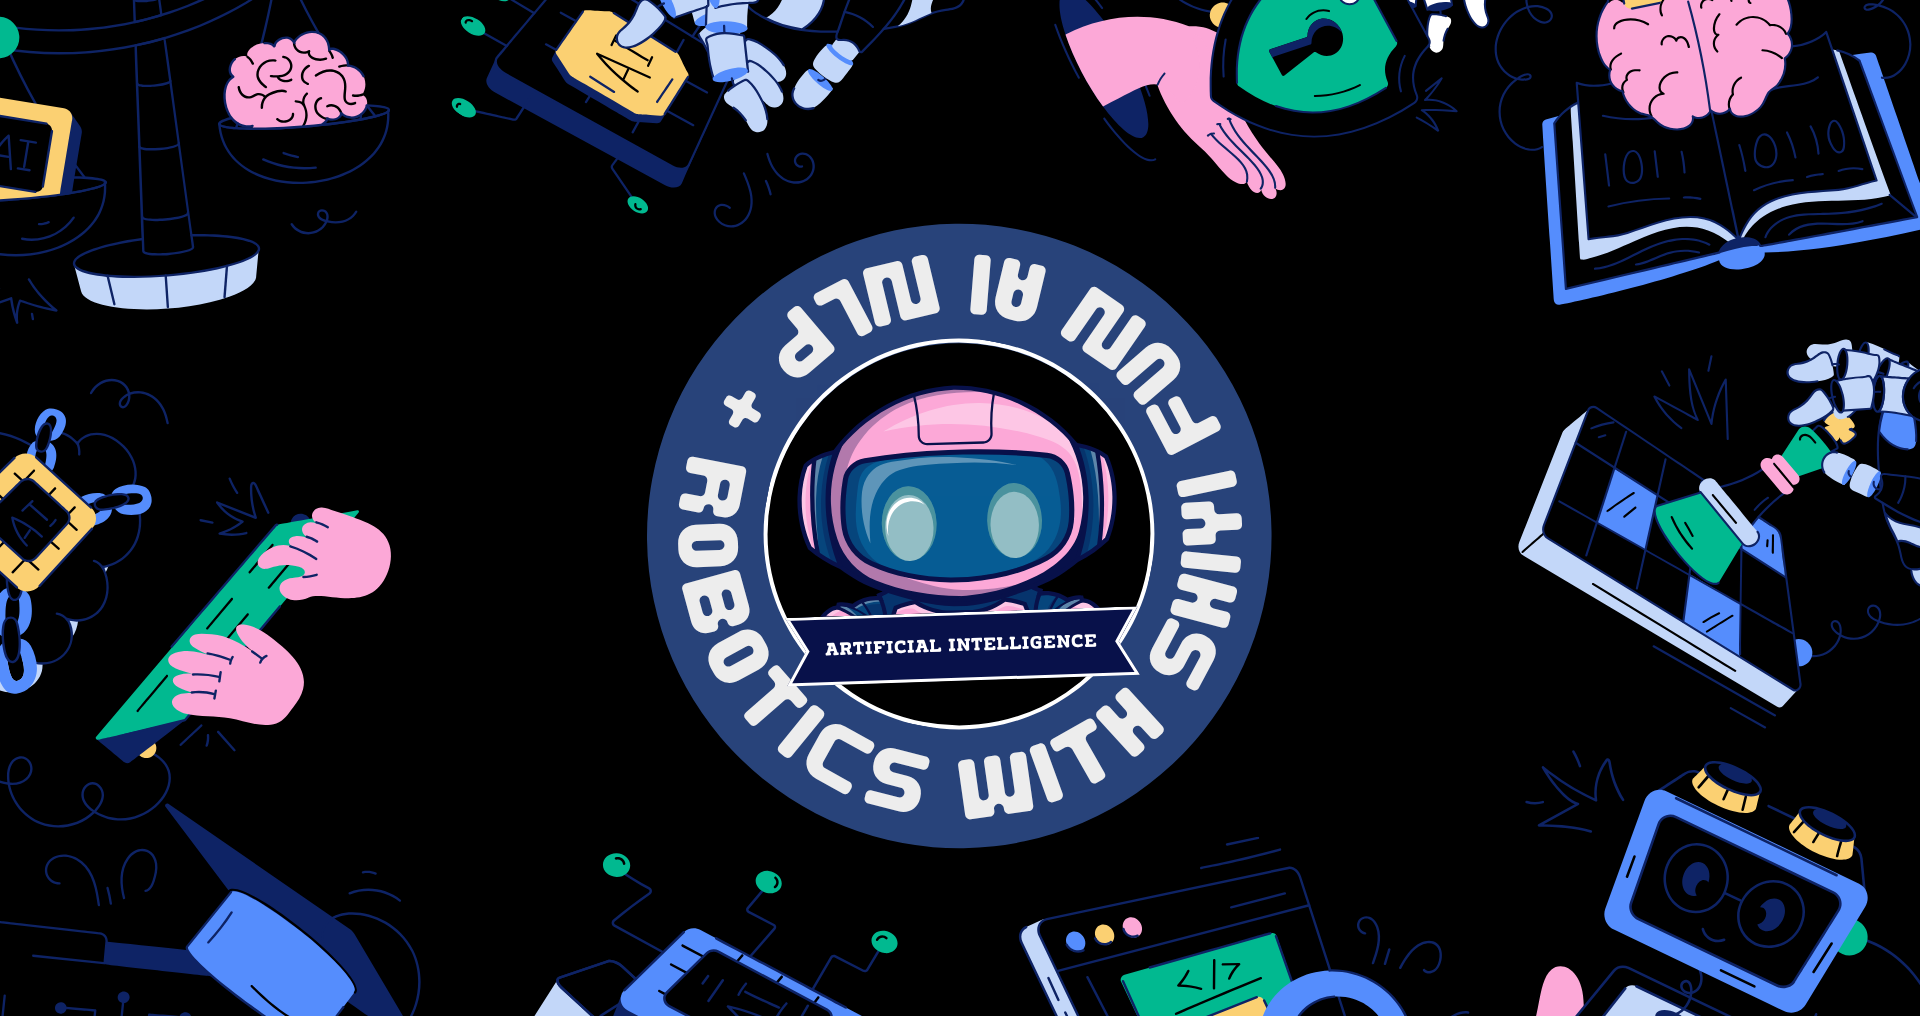
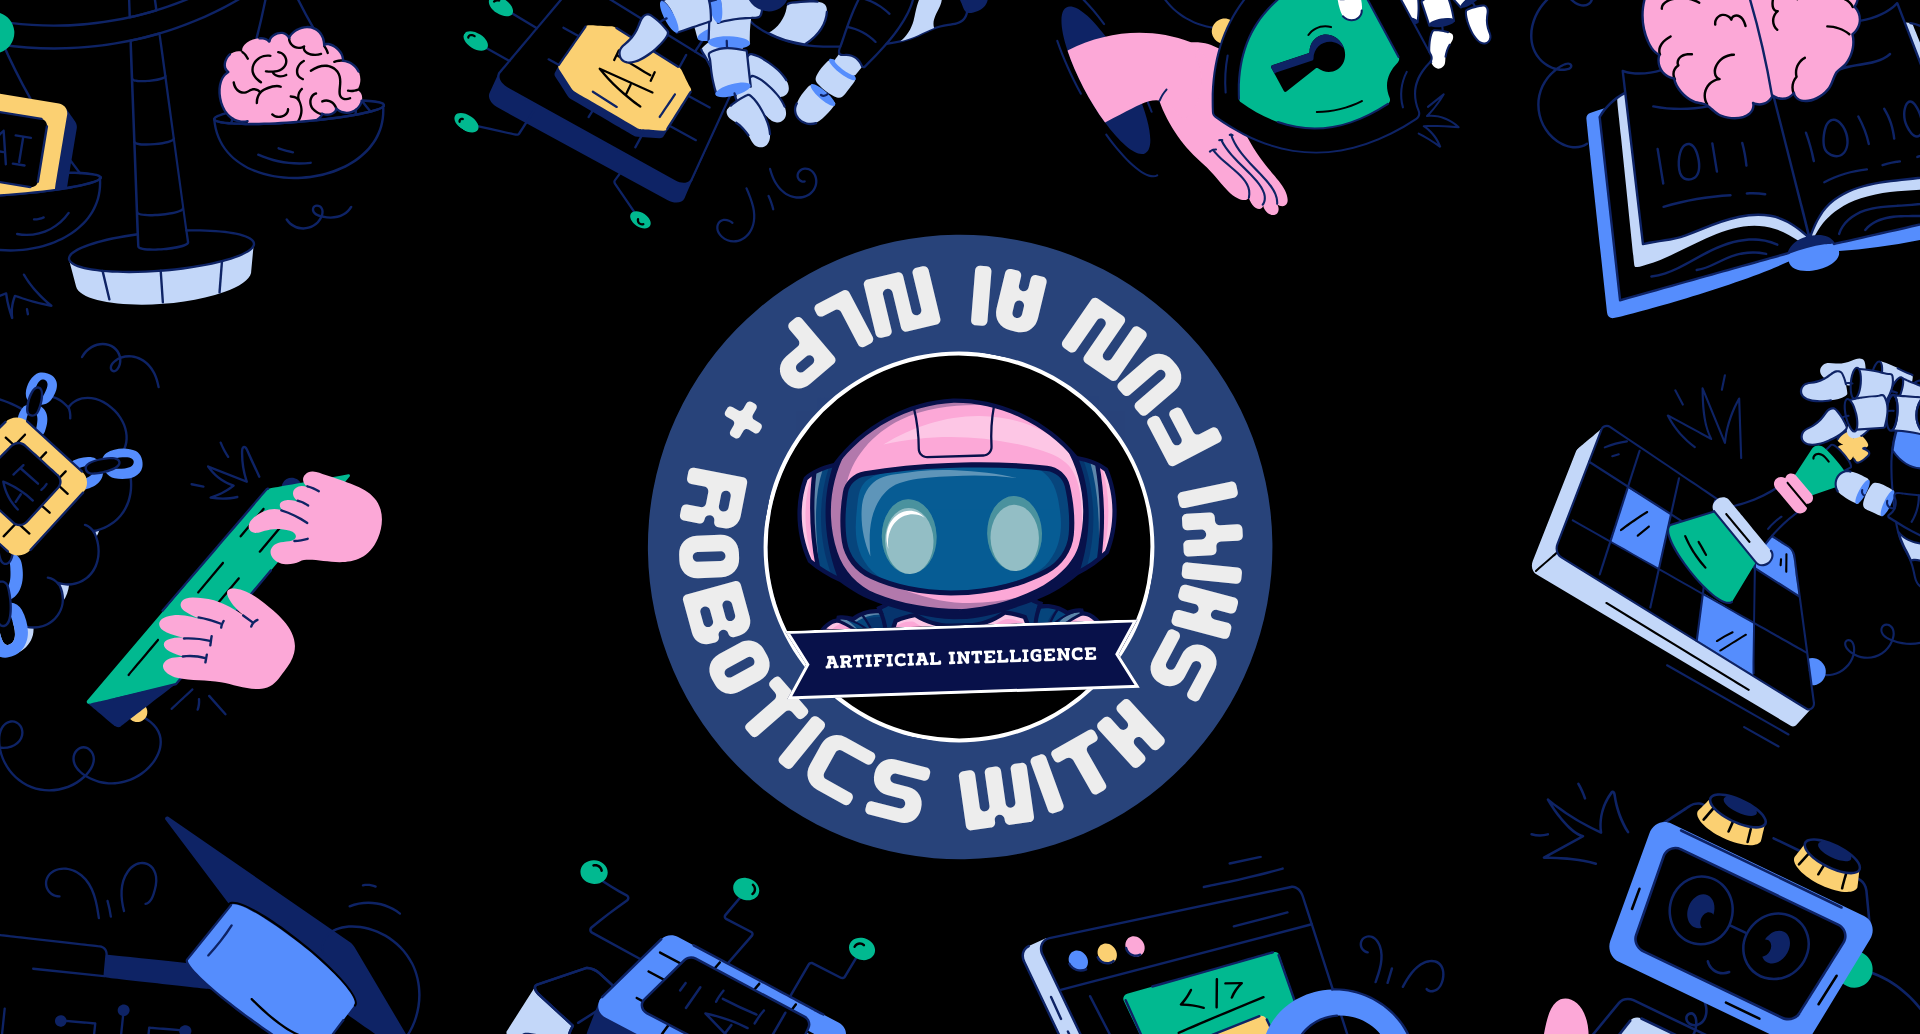
Deploying to main from  @ 0f98f156d666f9330dab46195a2863e591e74ac4 🚀

diff --git a/index.html b/index.html
@@ -1,4 +1,4 @@
-<!doctype html> <html lang=en > <meta charset=UTF-8 > <meta name=viewport  content="width=device-width, initial-scale=1"> <link rel=stylesheet  href="/nlpwme/libs/highlight/styles/github.min.css"> <link rel=stylesheet  href="/nlpwme/css/franklin.css"> <link rel=stylesheet  href="https://fonts.googleapis.com/css?family=Source+Sans+Pro:400,700,400italic|Source+Code+Pro:400,700" type="text/css"> <link rel=stylesheet  href="/nlpwme/css/font-awesome.min.css"> <link rel=stylesheet  href="/nlpwme/css/celeste.min.css"> <link rel=icon  type="image/png" sizes=200x200  href="/nlpwme/assets/robot.png"> <link rel=icon  type="image/png" sizes=152x152  href="/nlpwme/assets/robot_smaller_152x152.png"> <link rel=icon  type="image/x-icon" sizes=64x64  href="/nlpwme/assets/robot_smaller_64x64.png"> <link rel=icon  type="image/x-icon" sizes=32x32  href="/nlpwme/assets/robot_smaller_32x32.png"> <link rel=icon  type="image/png" sizes=64x64  href="/nlpwme/assets/robot_smaller_64x64.png"> <link rel=icon  type="image/png" sizes=32x32  href="/nlpwme/assets/robot_smaller_32x32.png"> <title>NLPwShiyi | Natural Language Processing with Shiyi</title> <script src="/nlpwme/assets/js/script.js"></script> <nav id=navbar  class=navigation  role=navigation > <input id=toggle1  type=checkbox  /> <label class=hamburger1  for=toggle1 > <div class=top ></div> <div class=meat ></div> <div class=bottom ></div> </label> <nav class="topnav mx-auto" id=myTopnav > <div class=dropdown > <button class=dropbtn >Comp Ling <i class="fa fa-caret-down"></i> </button> <div class=dropdown-content > <a href="/nlpwme/modules/1b-info-theory">Information Theory</a> <a href="/nlpwme/modules/1c-noisy-channel-model">The Noisy Channel Model</a> <a href="/nlpwme/modules/1d-finite-automata">FSAs and FSTs</a> <a href="/nlpwme/modules/1e-mutual-info">Mutual Information</a> <a href="/nlpwme/modules/1f-cky-algorithm">CKY Algorithm</a> <a href="/nlpwme/modules/1g-viterbi">Viterbi Algorithm</a> <a href="/nlpwme/modules/2b-markov-processes">Markov Processes</a> <a href="/nlpwme/modules/1h-semantics">Logic and Problem Solving</a> <a href="/nlpwme/modules/1j-bayesian">Bayesian Inference</a> </div> </div> <div class=dropdown > <button class=dropbtn  >ML / DL <i class="fa fa-caret-down"></i> </button> <div class=dropdown-content > <a href="/nlpwme/modules/2e-jax">Jacobian Matrices Derivation</a> <a href="/nlpwme/modules/2d-automatic-differentiation">Automatic Differentiation</a> <a href="/nlpwme/modules/2f-loss-functions">Stochastic GD</a> <a href="/nlpwme/modules/2c-word2vec">Word2Vec</a> <a href="/nlpwme/modules/2g-batchnorm">Batchnorm</a> <a href="/nlpwme/modules/2j-perplexity">Perplexity</a> <a href="/nlpwme/modules/2h-dropout">Dropout</a> <a href="/nlpwme/modules/2i-depth">Depth: Pros and Cons</a> <a href="/nlpwme/modules/2k-VAE">Variational Autoencoders</a> <a href="/nlpwme/modules/2l-dnns">DNNs(RNNs, CNNs, (Bi)-LSTM)</a> </div> </div> <a href="/nlpwme/" class=active >Intro </a> <div class=dropdown > <button class=dropbtn  >SOTA <i class="fa fa-caret-down"></i> </button> <div class=dropdown-content > <a href="/nlpwme/modules/3a-transformers"> GPT (Generative Pre-trained Transformer) </a> <a href="/nlpwme/modules/3b-xlnet"> XLNet (Generalized Autoregressive Pretraining) </a> <a href="/nlpwme/modules/3c-roberta"> RoBERTa (Robustly optimized BERT approach) </a> <a href="/nlpwme/modules/3d-t5"> T5 (Text-to-Text Transfer Transformer) </a> <a href="/nlpwme/modules/3e-clip"> CLIP (Contrastive Language-Image Pre-training) </a> </div> </div> <div class=dropdown > <button class=dropbtn  >Hands-on <i class="fa fa-caret-down"></i> </button> <div class=dropdown-content > <a href="/nlpwme/modules/4a-mlp-from-scratch">MLP from Scratch</a> <a href="/nlpwme/modules/4b-generative-adversarial-networks">GAN Example </a> <a href="/nlpwme/modules/4c-vae-mnist">VAE for MNIST</a> <a href="/nlpwme/modules/4d-bi-lstm-crf">BI-LSTM-CRF Seq2Seq</a> <a href="/nlpwme/modules/4e-c4fe-tbip">Measuring Subjectivity with VAE</a> <a href="/nlpwme/modules/4g-etl-job">Serverless ETL Example</a> <a href="/nlpwme/modules/4h-ocr-data-aug">OCR Text Augmentation</a> <a href="/nlpwme/modules/4i-neo4j-gql">Neo4j GQL Example</a> </div> </div> </nav> </nav> <script src="../assets/js/custom.js"></script> <div class=franklin-content ><p><img src="./assets/1.png" alt=intro  /></p> <h1 id=understanding_natural_language_processing_with_me ><a href="#understanding_natural_language_processing_with_me" class=header-anchor >Understanding Natural Language Processing with Me&#33;</a></h1> <p>Hi, I’m Shiyi. Welcome to my technical blog. Please check out this <a href="https://shiyis.github.io/nlp-docs">page</a> for a more detailed account of my journey with respect to learning Natural Language Processing. Here I will only be documenting the gists. I will be presenting everything I have learned so far, including important concepts, necessary code snippets, and more. I am by no means an expert in this subject, but I have gone through extensive studies and training in the fields and subfields related to have a good grasp of what’s important.</p> <p>Areas that I have dabbled in,</p> <pre><code class="julia hljs">→ General Linguistics
+<!doctype html> <html lang=en > <meta charset=UTF-8 > <meta name=viewport  content="width=device-width, initial-scale=1"> <link rel=stylesheet  href="/nlpwme/libs/highlight/styles/github.min.css"> <link rel=stylesheet  href="/nlpwme/css/franklin.css"> <link rel=stylesheet  href="https://fonts.googleapis.com/css?family=Source+Sans+Pro:400,700,400italic|Source+Code+Pro:400,700" type="text/css"> <link rel=stylesheet  href="/nlpwme/css/font-awesome.min.css"> <link rel=stylesheet  href="/nlpwme/css/celeste.min.css"> <link rel=icon  type="image/png" sizes=200x200  href="/nlpwme/assets/robot.png"> <link rel=icon  type="image/png" sizes=152x152  href="/nlpwme/assets/robot_smaller_152x152.png"> <link rel=icon  type="image/x-icon" sizes=64x64  href="/nlpwme/assets/robot_smaller_64x64.png"> <link rel=icon  type="image/x-icon" sizes=32x32  href="/nlpwme/assets/robot_smaller_32x32.png"> <link rel=icon  type="image/png" sizes=64x64  href="/nlpwme/assets/robot_smaller_64x64.png"> <link rel=icon  type="image/png" sizes=32x32  href="/nlpwme/assets/robot_smaller_32x32.png"> <title>NLPwShiyi | Natural Language Processing with Shiyi</title> <script src="/nlpwme/assets/js/script.js"></script> <nav id=navbar  class=navigation  role=navigation > <input id=toggle1  type=checkbox  /> <label class=hamburger1  for=toggle1 > <div class=top ></div> <div class=meat ></div> <div class=bottom ></div> </label> <nav class="topnav mx-auto" id=myTopnav > <div class=dropdown > <button class=dropbtn >Comp Ling <i class="fa fa-caret-down"></i> </button> <div class=dropdown-content > <a href="/nlpwme/modules/1b-info-theory">Information Theory</a> <a href="/nlpwme/modules/1c-noisy-channel-model">The Noisy Channel Model</a> <a href="/nlpwme/modules/1d-finite-automata">FSAs and FSTs</a> <a href="/nlpwme/modules/1e-mutual-info">Mutual Information</a> <a href="/nlpwme/modules/1f-cky-algorithm">CKY Algorithm</a> <a href="/nlpwme/modules/1g-viterbi">Viterbi Algorithm</a> <a href="/nlpwme/modules/2b-markov-processes">Markov Processes</a> <a href="/nlpwme/modules/1h-semantics">Logic and Problem Solving</a> <a href="/nlpwme/modules/1j-bayesian">Bayesian Inference</a> </div> </div> <div class=dropdown > <button class=dropbtn  >ML / DL <i class="fa fa-caret-down"></i> </button> <div class=dropdown-content > <a href="/nlpwme/modules/2e-jax">Jacobian Matrices Derivation</a> <a href="/nlpwme/modules/2d-automatic-differentiation">Automatic Differentiation</a> <a href="/nlpwme/modules/2f-loss-functions">Stochastic GD</a> <a href="/nlpwme/modules/2c-word2vec">Word2Vec</a> <a href="/nlpwme/modules/2g-batchnorm">Batchnorm</a> <a href="/nlpwme/modules/2j-perplexity">Perplexity</a> <a href="/nlpwme/modules/2h-dropout">Dropout</a> <a href="/nlpwme/modules/2i-depth">Depth: Pros and Cons</a> <a href="/nlpwme/modules/2k-VAE">Variational Autoencoders</a> <a href="/nlpwme/modules/2l-dnns">DNNs(RNNs, CNNs, (Bi)-LSTM)</a> </div> </div> <a href="/nlpwme/" class=active >Intro </a> <div class=dropdown > <button class=dropbtn  >SOTA <i class="fa fa-caret-down"></i> </button> <div class=dropdown-content > <a href="/nlpwme/modules/3a-transformers"> GPT (Generative Pre-trained Transformer) </a> <a href="/nlpwme/modules/3b-xlnet"> XLNet (Generalized Autoregressive Pretraining) </a> <a href="/nlpwme/modules/3c-roberta"> RoBERTa (Robustly optimized BERT approach) </a> <a href="/nlpwme/modules/3d-t5"> T5 (Text-to-Text Transfer Transformer) </a> <a href="/nlpwme/modules/3e-clip"> CLIP (Contrastive Language-Image Pre-training) </a> </div> </div> <div class=dropdown > <button class=dropbtn  >Hands-on <i class="fa fa-caret-down"></i> </button> <div class=dropdown-content > <a href="/nlpwme/modules/4a-mlp-from-scratch">MLP from Scratch</a> <a href="/nlpwme/modules/4b-generative-adversarial-networks">GAN Example </a> <a href="/nlpwme/modules/4c-vae-mnist">VAE for MNIST</a> <a href="/nlpwme/modules/4d-bi-lstm-crf">BI-LSTM-CRF Seq2Seq</a> <a href="/nlpwme/modules/4e-c4fe-tbip">Measuring Subjectivity with VAE</a> <a href="/nlpwme/modules/4g-etl-job">Serverless ETL Example</a> <a href="/nlpwme/modules/4h-ocr-data-aug">OCR Text Augmentation</a> <a href="/nlpwme/modules/4i-neo4j-gql">Neo4j GQL Example</a> </div> </div> </nav> </nav> <script src="../assets/js/custom.js"></script> <div class=franklin-content ><p><img src="./assets/2.png" alt=intro  /></p> <h1 id=understanding_natural_language_processing_with_me ><a href="#understanding_natural_language_processing_with_me" class=header-anchor >Understanding Natural Language Processing with Me&#33;</a></h1> <p>Hi, I’m Shiyi. Welcome to my technical blog. Please check out this <a href="https://shiyis.github.io/nlp-docs">page</a> for a more detailed account of my journey with respect to learning Natural Language Processing. Here I will only be documenting the gists. I will be presenting everything I have learned so far, including important concepts, necessary code snippets, and more. I am by no means an expert in this subject, but I have gone through extensive studies and training in the fields and subfields related to have a good grasp of what’s important.</p> <p>Areas that I have dabbled in,</p> <pre><code class="julia hljs">→ General Linguistics
 → Symbolic Computational Linguistics
 → Statistical Natural Language Processing
 → State of the Art Large Language Modeling</code></pre> <h3 id=the_subject_matter ><a href="#the_subject_matter" class=header-anchor ><strong>The Subject Matter</strong></a></h3> <p>What do we mean by Natural Language Processing? If we do a little googling and researching, it&#39;s very intuitive that natural language processing involves a set of solutions to various natural human language tasks. The most common ones are</p> <pre><code class="plaintext hljs">→ Sentiment analysis
